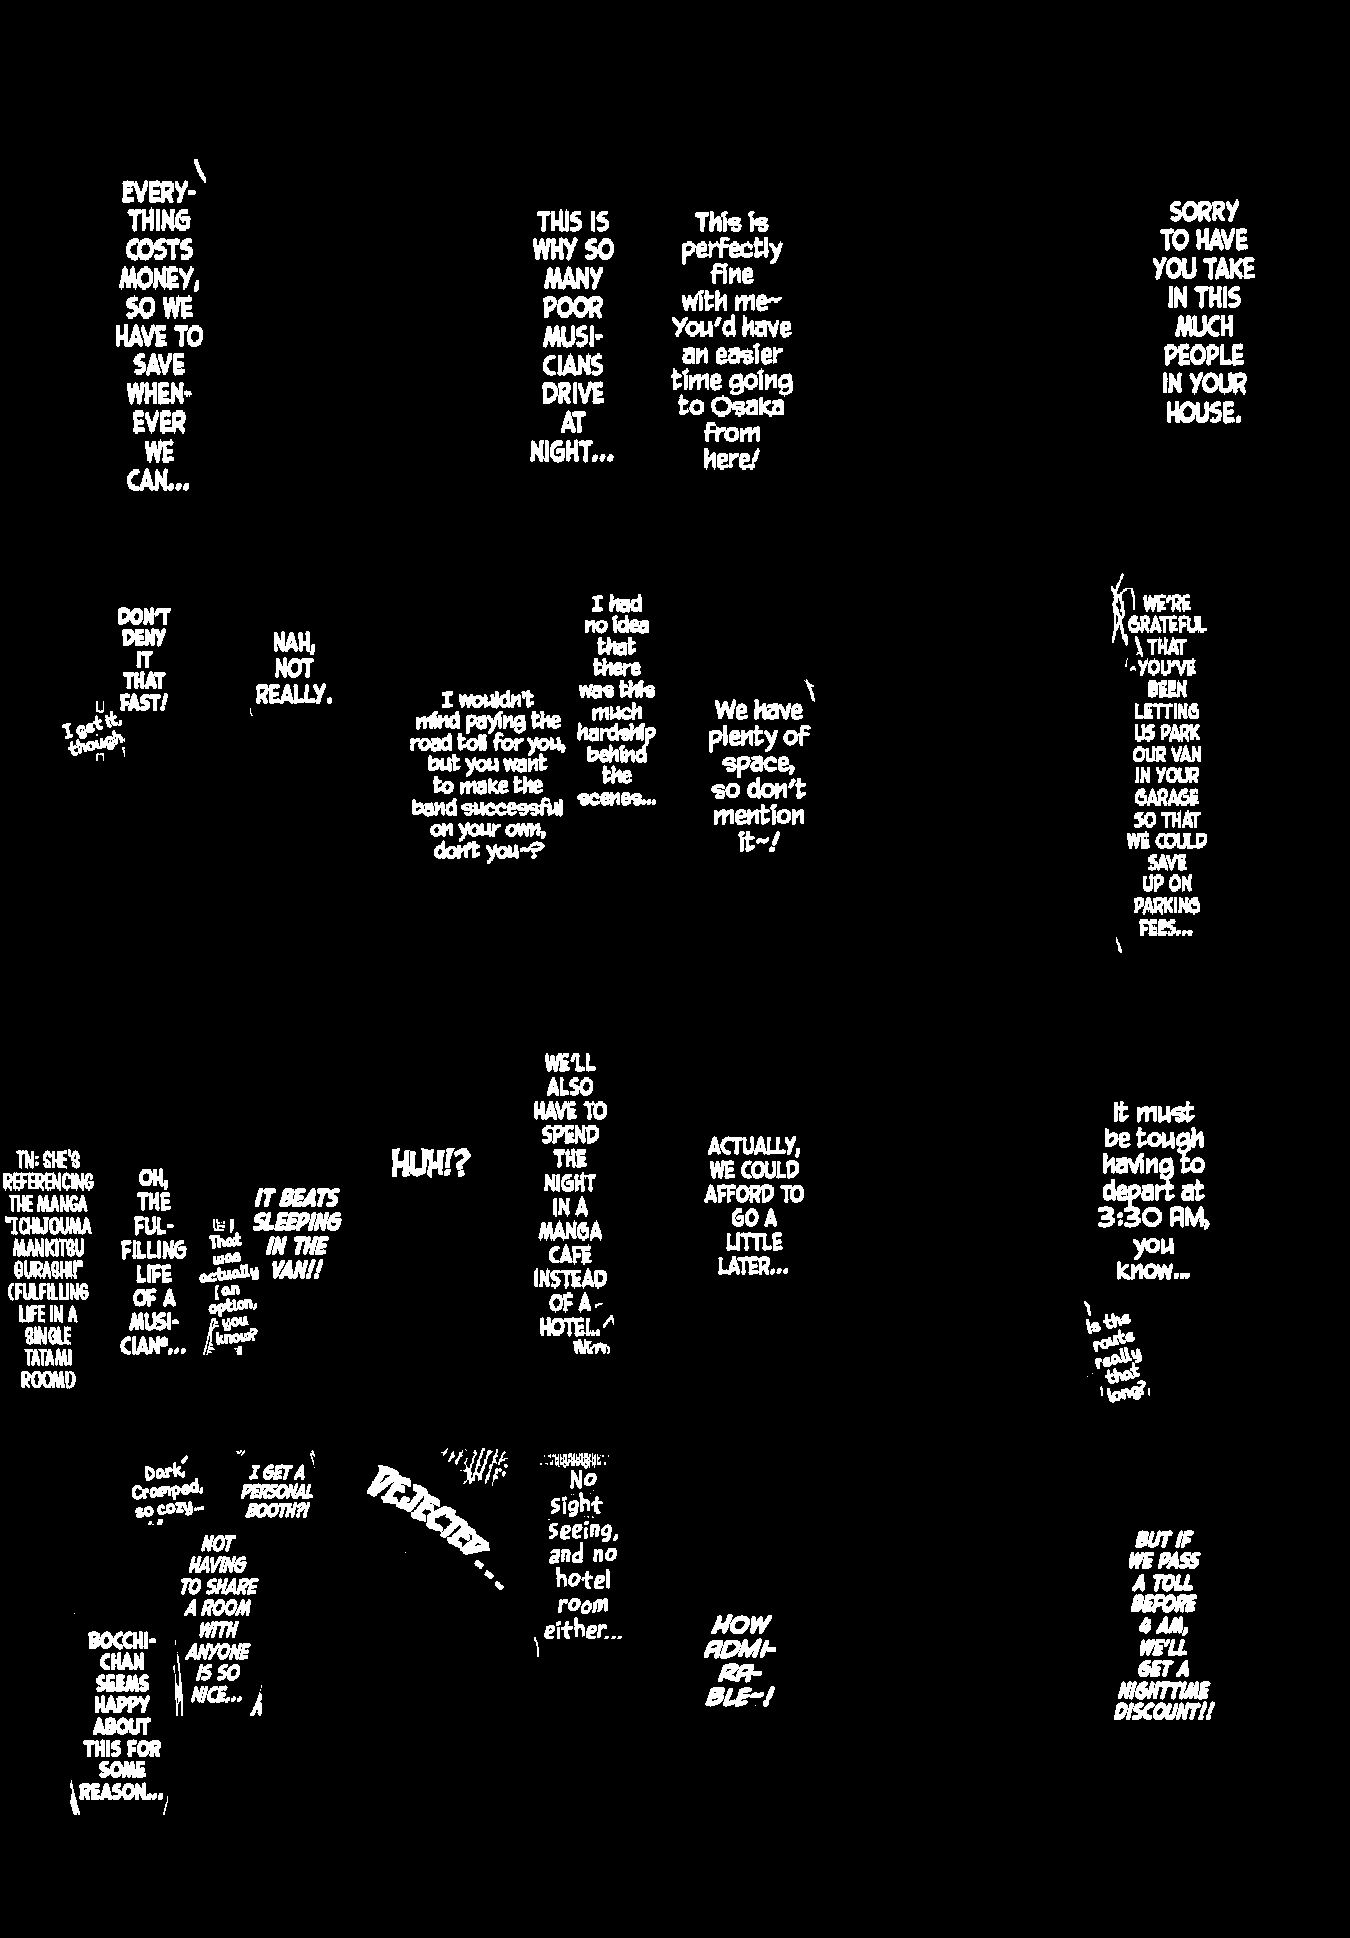
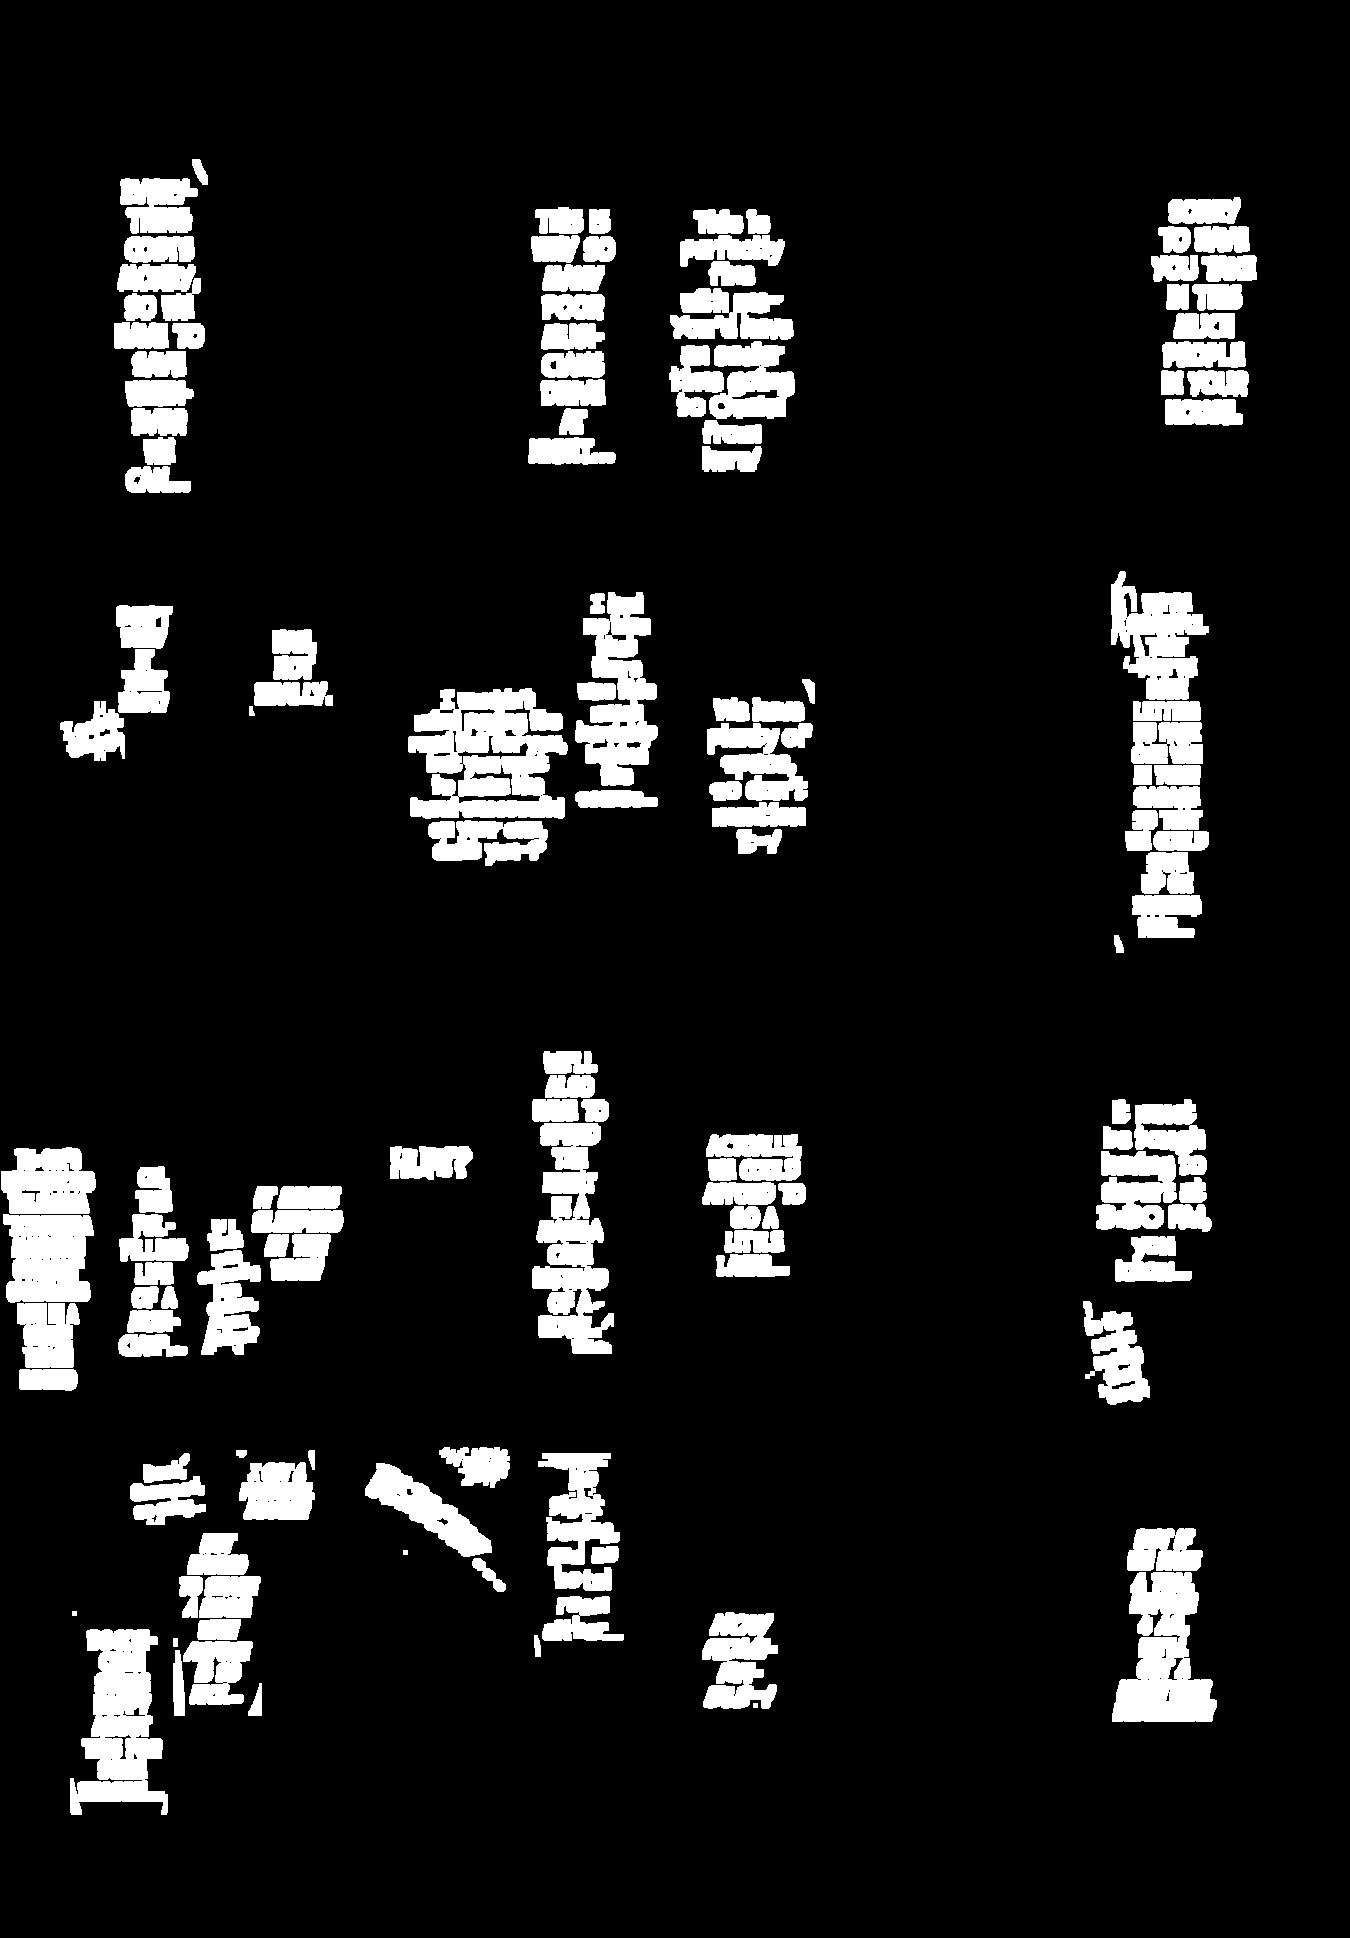
Add inpainting step to dev pipeline and update outputs
Integrated LamaCleaner-based inpainting into the development pipeline, including mask dilation and per-region inpainting for detected text regions. Updated output saving to include inpainting results, and improved segmentation and detection visualization. Refactored code for clarity and added progress reporting with tqdm.

diff --git a/src/pipeline.py b/src/pipeline.py
@@ -1,25 +1,18 @@
 import cv2
 import numpy as np
 import os
+from tqdm import tqdm
 
 # Imports based on your project structure
 from src.detection.manga_detector import TextDetector_YOLO
 from src.segmentation.text_segmentor import TextSegmentor_B1
+from src.inpainting.lama_cleaner import LamaCleaner
 
 
 def create_overlay(image, mask, color=(0, 0, 255), alpha=0.5):
-    """
-    Overlays a binary mask onto an image with a specific color.
-    Args:
-        image: Original BGR image
-        mask: Binary mask (0 or 255)
-        color: BGR color for the overlay (default: Red)
-        alpha: Transparency (0 to 1)
-    """
+    """Overlays a binary mask onto an image with a specific color."""
     overlay = image.copy()
-    # Apply the color to the areas where the mask is active
     overlay[mask > 0] = color
-    # Blend the overlay with the original image
     output = cv2.addWeighted(overlay, alpha, image, 1 - alpha, 0)
     return output
 
@@ -28,16 +21,20 @@ def run_dev_pipeline(image_path, model_dir="checkpoints", dev_out="output_dev"):
     # 0. Setup Output Directories
     det_out_dir = os.path.join(dev_out, "text_detection")
     seg_out_dir = os.path.join(dev_out, "text_segmentation")
+    inp_out_dir = os.path.join(dev_out, "inpainting_results")
+
     os.makedirs(det_out_dir, exist_ok=True)
     os.makedirs(seg_out_dir, exist_ok=True)
+    os.makedirs(inp_out_dir, exist_ok=True)
 
     filename = os.path.basename(image_path)
-    print(f"--- Processing: {filename} ---")
+    print(f"\n--- Processing: {filename} ---")
 
     # 1. Initialize Models
     print("Initializing models...")
     text_detector = TextDetector_YOLO(os.path.join(model_dir, "text_det_yolo.onnx"))
     text_segmenter = TextSegmentor_B1(os.path.join(model_dir, "text-segmentation.pth"))
+    inpainter = LamaCleaner(os.path.join(model_dir, "anime-manga-big-lama.pt"))
 
     # 2. Load Image
     img_bgr = cv2.imread(image_path)
@@ -46,62 +43,72 @@ def run_dev_pipeline(image_path, model_dir="checkpoints", dev_out="output_dev"):
         return
 
     h, w, _ = img_bgr.shape
+    inpainted_res = img_bgr.copy()
 
     # 3. Detection Phase
     print("Step 1: Detecting text regions...")
     detections = text_detector.detect(img_bgr)
+    print(f"Found {len(detections)} text regions.")
 
-    # Visualize Bounding Boxes
-    det_viz = img_bgr.copy()
-    for det in detections:
-        x1, y1, x2, y2 = map(int, det["box"])
-        # Draw box
-        cv2.rectangle(det_viz, (x1, y1), (x2, y2), (0, 255, 0), 2)
-        # Draw label/conf
-        label = f"{det['conf']:.2f}"
-        cv2.putText(
-            det_viz, label, (x1, y1 - 10), cv2.FONT_HERSHEY_SIMPLEX, 0.5, (0, 255, 0), 2
-        )
-
-    cv2.imwrite(os.path.join(det_out_dir, f"det_{filename}"), det_viz)
-    print(f"✅ Detection result saved to: {det_out_dir}")
-
-    # 4. Segmentation Phase
-    print("Step 2: Segmenting regions and creating overlay...")
+    # 4. Segmentation & Inpainting Phase
+    print("Step 2 & 3: Segmenting, Dilating, and Inpainting...")
     global_mask = np.zeros((h, w), dtype=np.uint8)
 
-    for det in detections:
+    # Define dilation kernel (3x3 or 5x5 usually works best for text)
+    # A 3x3 kernel with 2 iterations is generally safer for manga
+    kernel = np.ones((3, 3), np.uint8)
+
+    for det in tqdm(detections, desc="Cleaning regions", unit="roi"):
         x1, y1, x2, y2 = map(int, det["box"])
         x1, y1, x2, y2 = max(0, x1), max(0, y1), min(w, x2), min(h, y2)
 
-        roi = img_bgr[y1:y2, x1:x2]
-        if roi.size == 0:
+        roi_img = img_bgr[y1:y2, x1:x2]
+        if roi_img.size == 0:
             continue
 
-        # Run segmentation on the detected box
-        roi_mask = text_segmenter.segment(roi)
+        # A. Segment ROI
+        roi_mask = text_segmenter.segment(roi_img)
 
-        # Merge ROI mask into global mask
-        global_mask[y1:y2, x1:x2] = cv2.bitwise_or(global_mask[y1:y2, x1:x2], roi_mask)
+        # B. Dilate Mask (Expand mask to capture text edges/anti-aliasing)
+        # iterations=2 expands the mask by roughly 2-3 pixels in all directions
+        roi_mask_dilated = cv2.dilate(roi_mask, kernel, iterations=2)
 
-    # Create the Visual Overlay (Red tint on text)
+        # Merge dilated mask into global mask for visualization
+        global_mask[y1:y2, x1:x2] = cv2.bitwise_or(
+            global_mask[y1:y2, x1:x2], roi_mask_dilated
+        )
+
+        # C. Inpaint ROI
+        roi_mask_3ch = cv2.cvtColor(roi_mask_dilated, cv2.COLOR_GRAY2BGR)
+        try:
+            # We inpaint the ROI using the dilated mask
+            inpainted_roi = inpainter.inpaint_with_crop(
+                roi_img, roi_mask_3ch, margin=32
+            )
+            inpainted_res[y1:y2, x1:x2] = inpainted_roi
+        except Exception:
+            continue
+
+    # 5. Save Results
+    # 5.1 Save Detection Visualization
+    det_viz = img_bgr.copy()
+    for det in detections:
+        x1, y1, x2, y2 = map(int, det["box"])
+        cv2.rectangle(det_viz, (x1, y1), (x2, y2), (0, 255, 0), 2)
+    cv2.imwrite(os.path.join(det_out_dir, f"det_{filename}"), det_viz)
+
+    # 5.2 Save Segmentation Visualization (with dilation)
     seg_overlay = create_overlay(img_bgr, global_mask, color=(0, 0, 255), alpha=0.4)
-    """
-    print("Step 3: Inpainting (Skipped due to hardware)...")
-    mask_buffer = cv2.cvtColor(global_mask, cv2.COLOR_GRAY2BGR)
-    result_pil = inpainter.inpaint_with_crop(img_bgr, mask_buffer, margin=128)
-    result_pil.save(os.path.join(dev_out, f"final_{filename}"))
-    """
-
-    # Save both the raw mask and the overlay for comparison
     cv2.imwrite(os.path.join(seg_out_dir, f"mask_{filename}"), global_mask)
     cv2.imwrite(os.path.join(seg_out_dir, f"overlay_{filename}"), seg_overlay)
 
-    print(f"✅ Segmentation overlay saved to: {seg_out_dir}")
-    print(f"--- Finished {filename} ---\n")
+    # 5.3 Save Final Cleaned image
+    final_out_path = os.path.join(inp_out_dir, f"clean_{filename}")
+    cv2.imwrite(final_out_path, inpainted_res)
+
+    print(f"✅ Finished! Result saved to: {final_out_path}")
 
 
 if __name__ == "__main__":
-    # You can point this to a specific image or a folder
     IMAGE_TO_TEST = "sample/3ff69466-329e-4fd6-b307-e3e0237e320c.png"
     run_dev_pipeline(IMAGE_TO_TEST)
